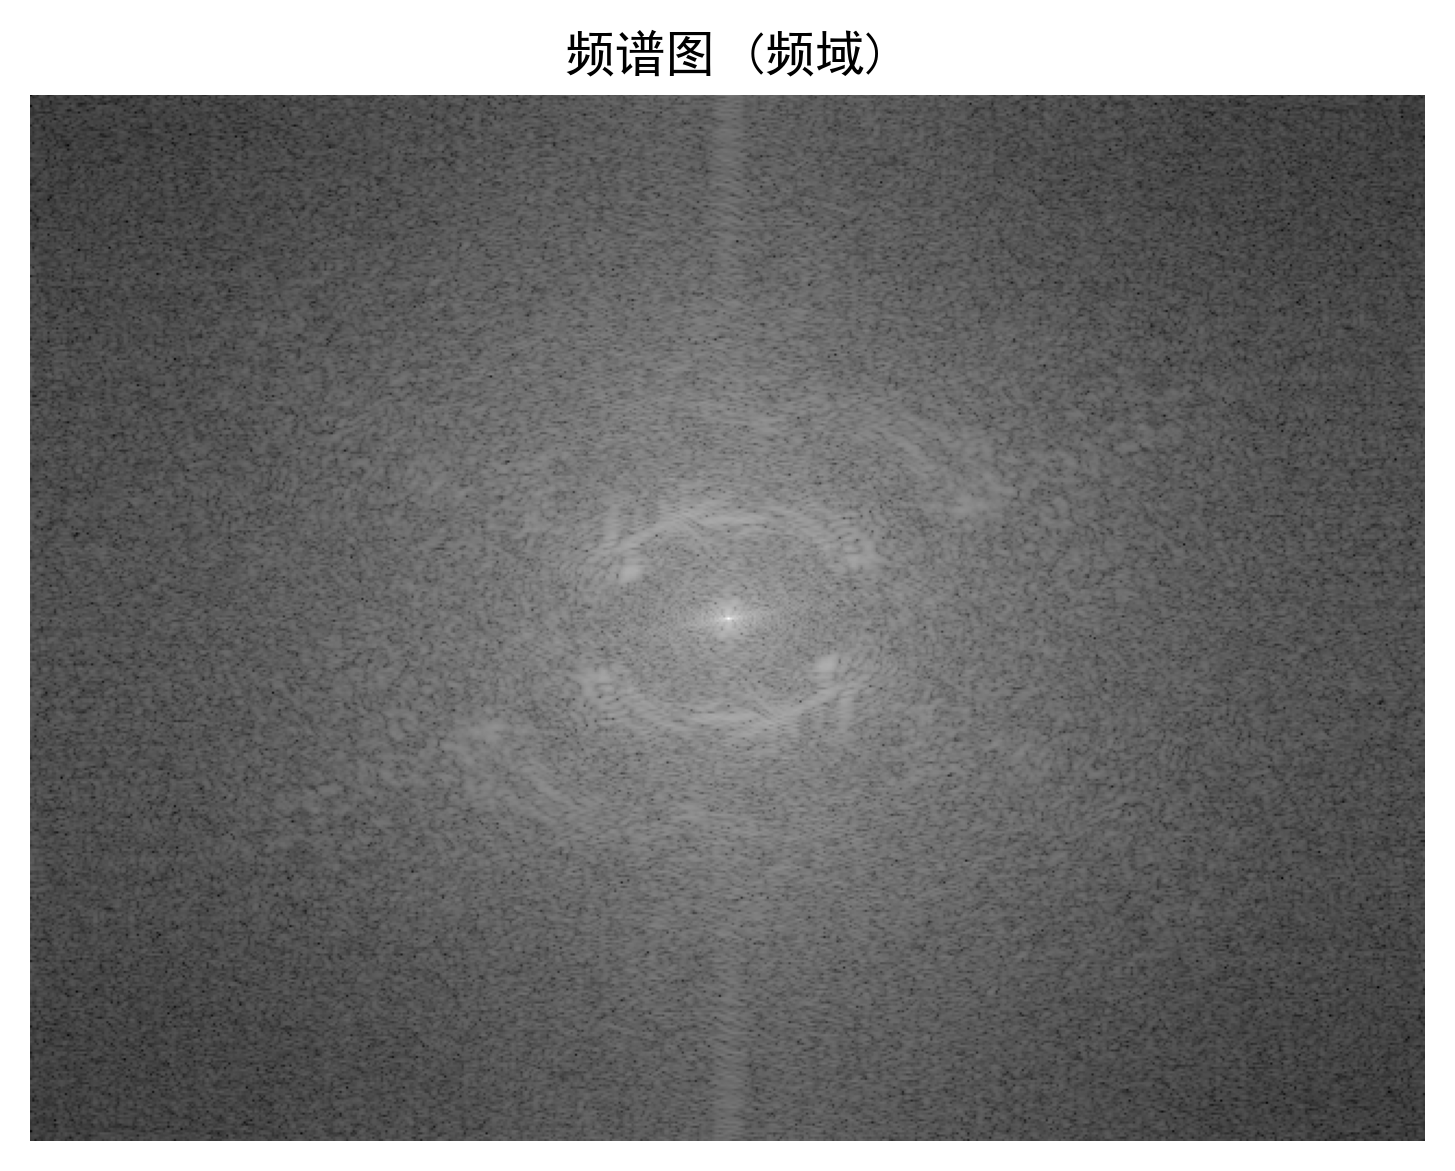
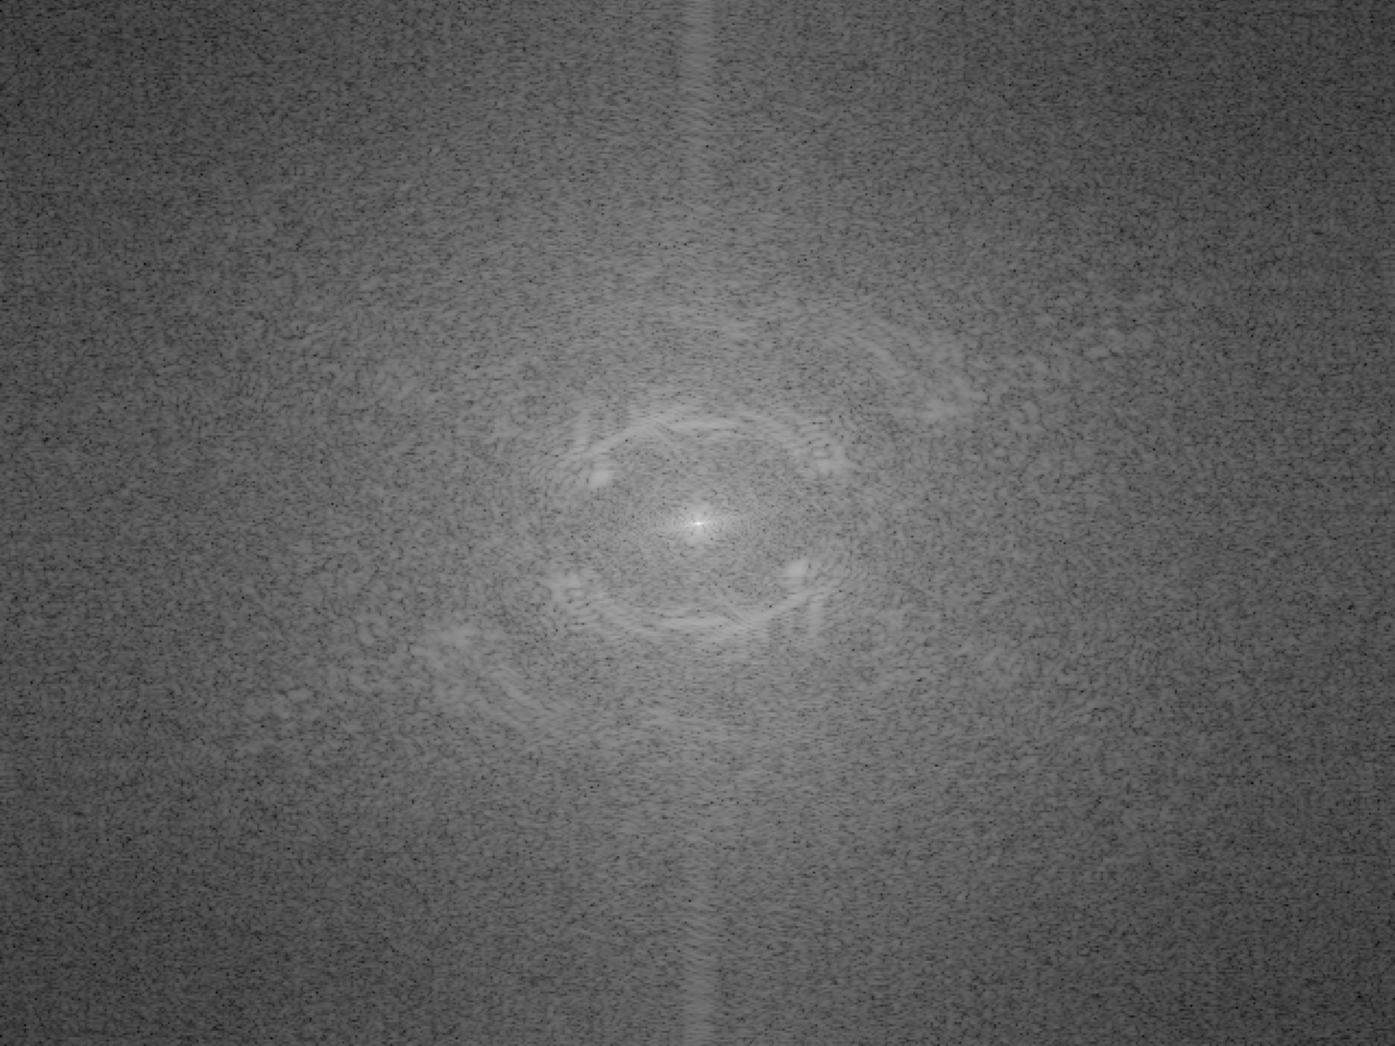
实现了图像的傅里叶变换、log可视化和中心化

diff --git a/main.py b/main.py
@@ -1,7 +1,7 @@
 import cv2
-import numpy as np
 import matplotlib.pyplot as plt
 from matplotlib import rcParams
+from imageProcessing import *
 
 # 设置中文字体为 SimHei
 rcParams['font.family'] = 'SimHei'
@@ -25,32 +25,19 @@ if __name__ == "__main__":
     # 将图像数据类型转换为 float64，以支持负数
     image = image.astype(np.float64)
 
-    # 创建一个与图像大小相同的复数数组来存储傅里叶变换结果
-    F = np.zeros((M, N), dtype=complex)
-
-    # 对图像进行中心化处理：乘以 (-1)^(x+y)
-    centered_image = np.zeros_like(image, dtype=float)
-    for x in range(M):
-        for y in range(N):
-            centered_image[x, y] = image[x, y] * ((-1) ** (x + y))
-
-    F = np.fft.fft2(centered_image)
-
     # 计算傅里叶变换
-    # for u in range(M):
-    #     for v in range(N):
-    #         print(f"u={u},v={v}\n")
-    #         sum_val = 0
-    #         temp_ex = -2j * np.pi * u / M
-    #         temp_ey = -2j * np.pi * v / N
-    #         for x in range(M):
-    #             for y in range(N):
-    #                 exponent = x * temp_ex + y * temp_ey
-    #                 sum_val += image[x, y] * np.exp(exponent)
-    #         F[u, v] = sum_val
+    F = np.fft.fft2(image)
+    # F = FT(image)
 
     # 频谱移位，使得低频部分移动到中心
-    # Fshift = np.fft.fftshift(F)
+    Fshift = np.fft.fftshift(F)
+
+    # 保存原始频谱图
+    plt.figure(figsize=(6, 6))
+    plt.imshow(np.abs(Fshift), cmap='gray')
+    plt.axis('off')
+    plt.savefig('./Pictures/original_frequency_spectrum.png', dpi=300, bbox_inches='tight', pad_inches=0)
+    plt.close()  # 关闭当前图形
 
     # 计算频谱的幅度并取对数，以便更容易可视化
     magnitude_spectrum = np.abs(F)
@@ -59,7 +46,27 @@ if __name__ == "__main__":
     # 保存频谱图
     plt.figure(figsize=(6, 6))
     plt.imshow(magnitude_spectrum, cmap='gray')
-    plt.title('频谱图 (频域)')
     plt.axis('off')
-    plt.savefig('./Pictures/centered_frequency_spectrum.png', dpi=300, bbox_inches='tight')
+    plt.savefig('./Pictures/log_frequency_spectrum.png', dpi=300, bbox_inches='tight', pad_inches=0)
+    plt.close()  # 关闭当前图形
+
+    # 对图像进行中心化处理：乘以 (-1)^(x+y)
+    centered_image = centerImage(image)
+
+    # 计算中心化后的傅里叶变换
+    F_centered = np.fft.fft2(centered_image)
+    # F_centered = FT(centered_image)
+
+    # 频谱移位，使得低频部分移动到中心
+    # Fshift = np.fft.fftshift(F_centered)
+
+    # 计算频谱的幅度并取对数，以便更容易可视化
+    magnitude_spectrum_centered = np.abs(F_centered)
+    magnitude_spectrum_centered = np.log(magnitude_spectrum_centered + 1)
+
+    # 保存频谱图
+    plt.figure(figsize=(6, 6))
+    plt.imshow(magnitude_spectrum_centered, cmap='gray')
+    plt.axis('off')
+    plt.savefig('./Pictures/centered_frequency_spectrum.png', dpi=300, bbox_inches='tight', pad_inches=0)
     plt.close()  # 关闭当前图形

diff --git a/imageProcessing.py b/imageProcessing.py
@@ -1,0 +1,38 @@
+import numpy as np
+import matplotlib.pyplot as plt
+
+
+def FT(image):
+    """
+    计算图像的傅里叶变换。
+    参数:
+        image (numpy.ndarray): 中心化处理后的灰度图像。
+    返回:
+        F (numpy.ndarray): 傅里叶变换结果（复数）。
+    """
+    M, N = image.shape
+    F = np.zeros((M, N), dtype=complex)
+    for u in range(M):
+        for v in range(N):
+            sum_val = 0
+            for x in range(M):
+                for y in range(N):
+                    exponent = -2j * np.pi * (u * x / M + v * y / N)
+                    sum_val += image[x, y] * np.exp(exponent)
+            F[u, v] = sum_val
+    return F
+
+def centerImage(image):
+    """
+    对图像进行中心化处理，乘以 (-1)^(x+y)
+    参数:
+        image (numpy.ndarray): 输入的灰度图像。
+    返回:
+        centered_image (numpy.ndarray): 中心化处理后的图像。
+    """
+    M, N = image.shape
+    centered_image = np.zeros_like(image, dtype=np.float64)
+    for x in range(M):
+        for y in range(N):
+            centered_image[x, y] = image[x, y] * ((-1) ** (x + y))
+    return centered_image
